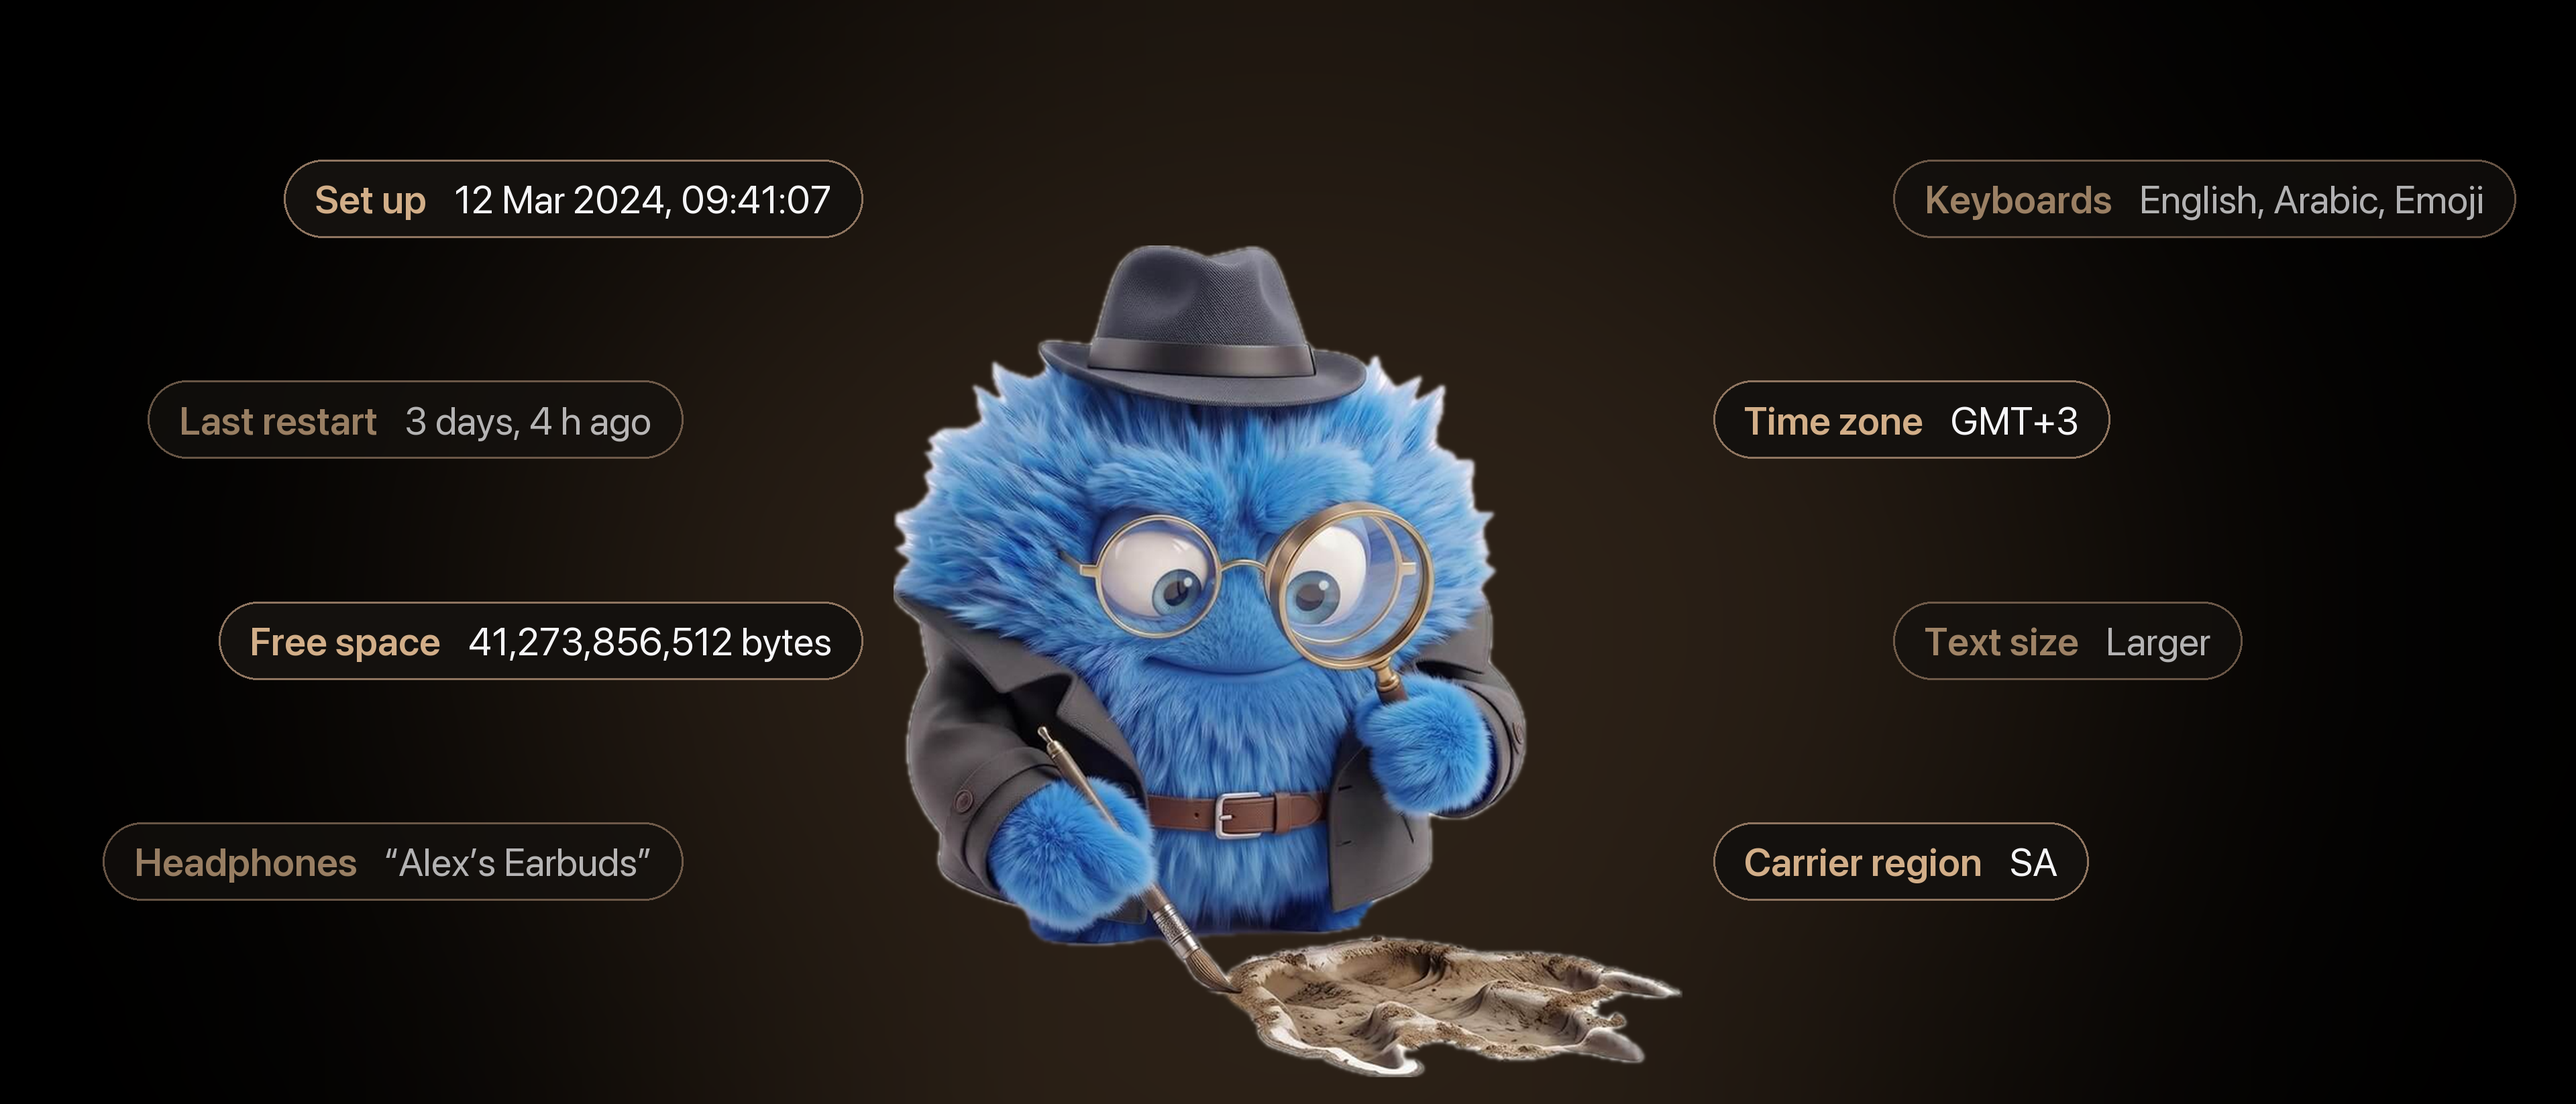
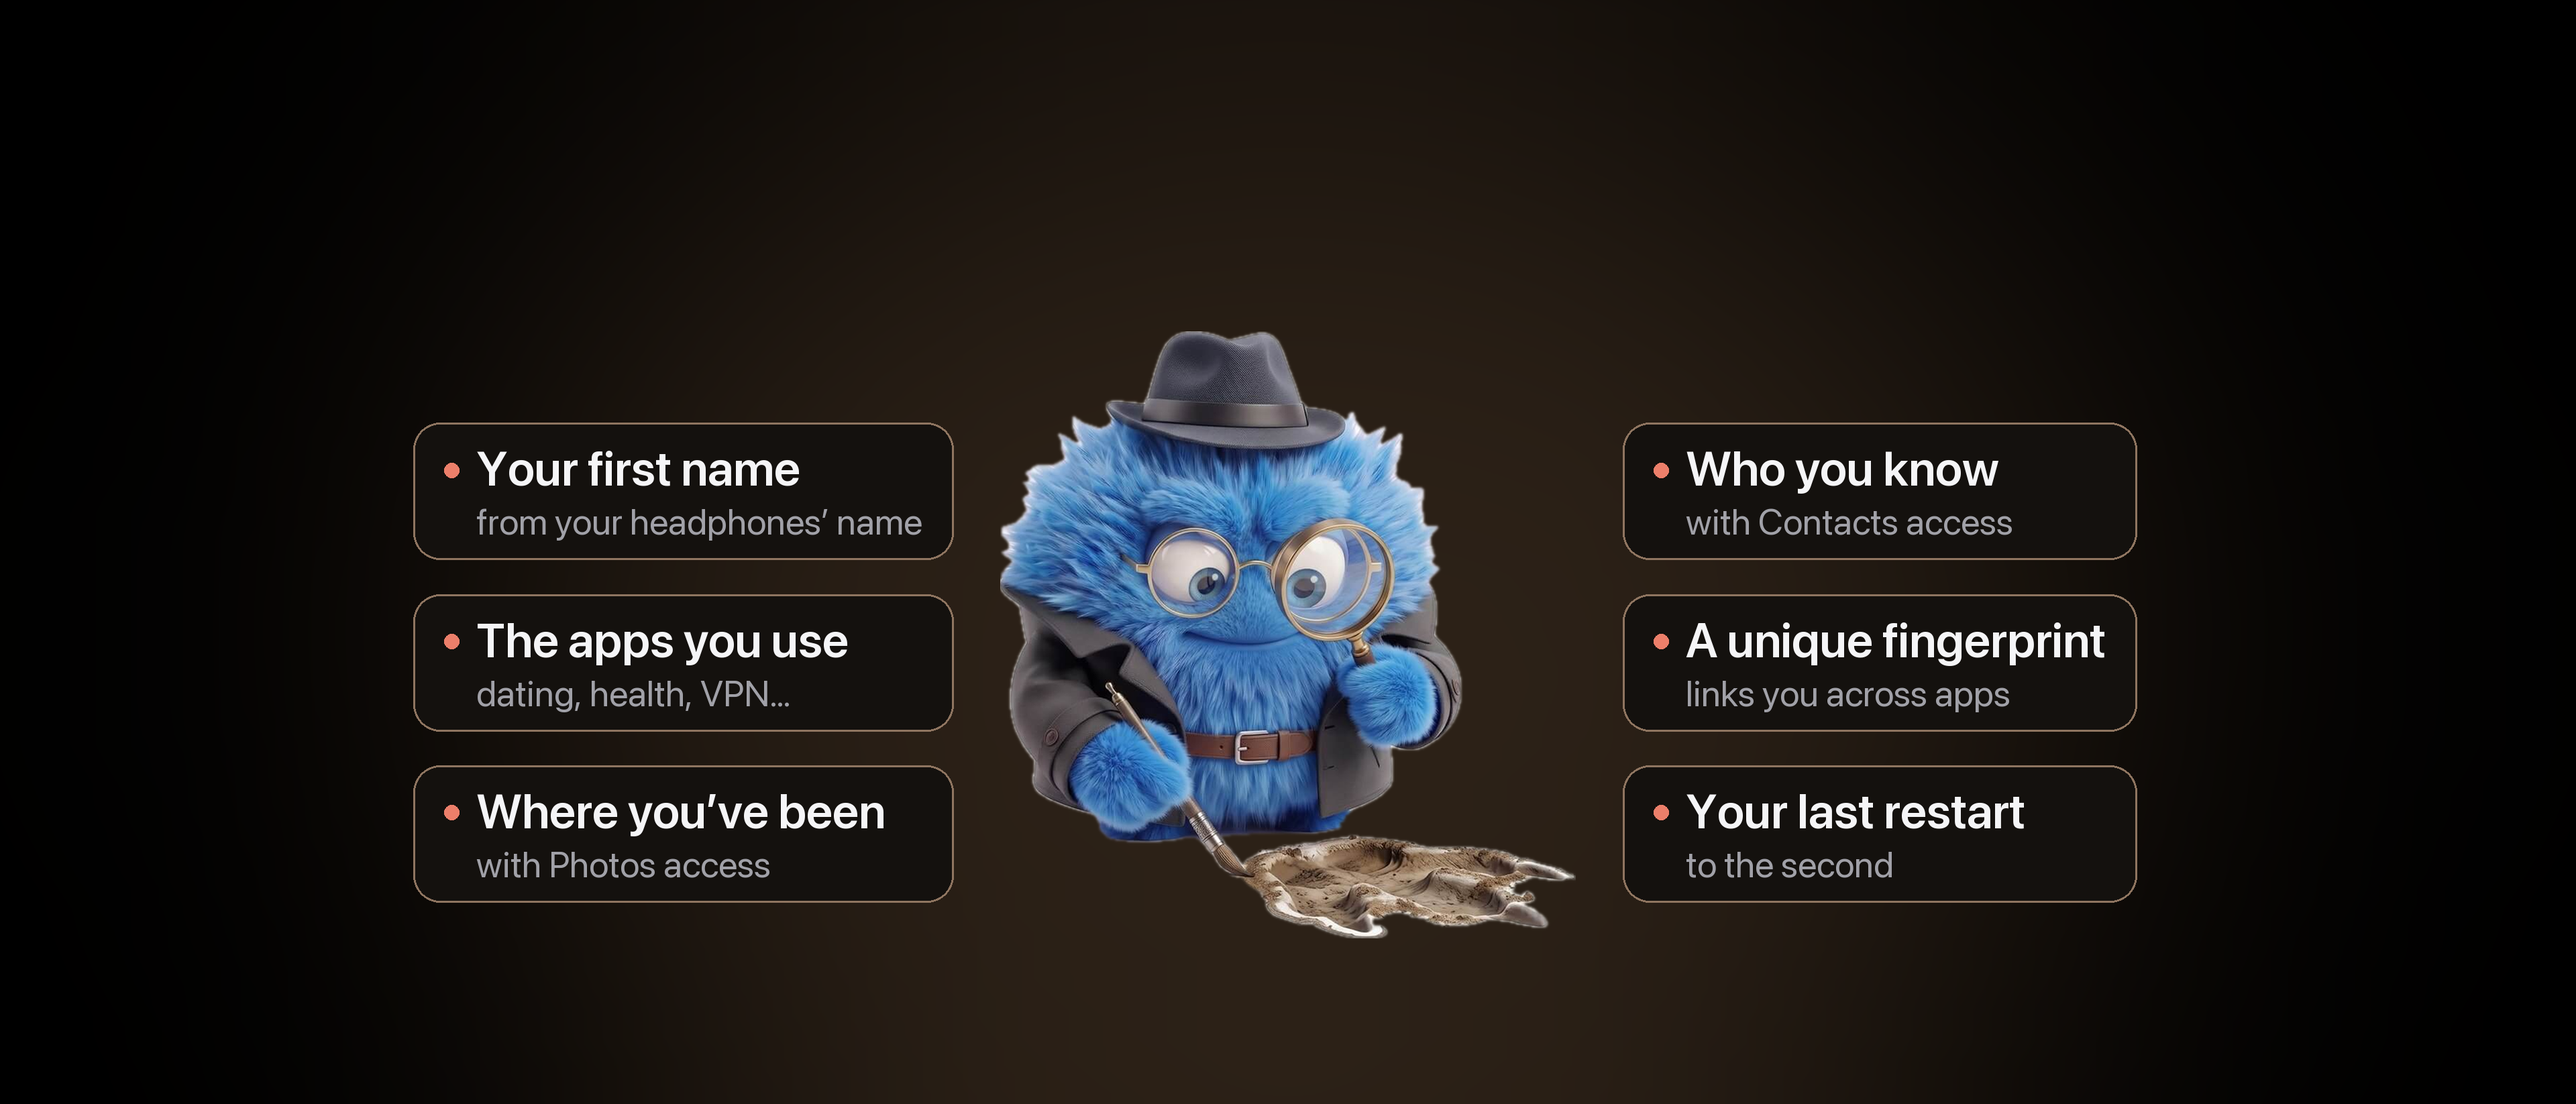
Header: crop-safe layout for iPhone and iPad, concern cards instead of raw values

diff --git a/scripts/make-creative-assets.py b/scripts/make-creative-assets.py
@@ -6,9 +6,9 @@
 
     python3 scripts/make-creative-assets.py <raw-iphone-dir> <out-dir>
 
-- Header, 21:9 at 3840 x 1646: one idea and no headline. The mascot studies the footprint while
-  the details any app can read float around him as clues. Everything important sits in the centre
-  so nothing is lost when the store crops it.
+- Header, 21:9 at 3840 x 1646: one idea and no headline. The mascot studies the footprint between
+  six things an app could learn about you, flagged like the app's findings. Laid out inside the
+  area that both the iPhone and the iPad crop keep (see header()).
 - Search results, 3:2 at 3840 x 2560: says what the app does at a glance and shows the real
   interface, as Apple advises. The headline, three iPhone screens (the mascot is on the centre one) are all centred.
 Quiet Noir palette, shared with the slides. No alpha channel (Apple rejects transparency).
@@ -23,15 +23,14 @@ slides = importlib.util.module_from_spec(spec); spec.loader.exec_module(slides)
 font, device, draw_headline = slides.font, slides.device, slides.draw_headline
 SAND, SAND_DEEP, INK, MUTED = slides.SAND, slides.SAND_DEEP, slides.INK, slides.MUTED
 
-# Illustrative values only: what any app can read without asking.
-CLUES = [
-    ("Set up", "12 Mar 2024, 09:41:07"), ("Last restart", "3 days, 4 h ago"),
-    ("Free space", "41,273,856,512 bytes"), ("Headphones", "“Alex’s Earbuds”"),
-    ("Keyboards", "English, Arabic, Emoji"), ("Time zone", "GMT+3"),
-    ("Text size", "Larger"), ("Carrier region", "SA"),
-    ("Screen", "120 Hz · 460 ppi"), ("Languages", "en-GB, ar"),
+# What an app can learn about you, each with its honest source. Shown as concerns (coral dot), the
+# same way the app flags findings that are worth a look.
+CONCERNS = [
+    ("Your first name", "from your headphones’ name"), ("The apps you use", "dating, health, VPN…"),
+    ("Where you’ve been", "with Photos access"), ("Who you know", "with Contacts access"),
+    ("A unique fingerprint", "links you across apps"), ("Your last restart", "to the second"),
 ]
-
+CORAL = (236, 127, 106)
 
 def glow(w, h, centre_y=0.5):
     bg = Image.new("RGB", (w, h), (0, 0, 0))
@@ -41,44 +40,46 @@ def glow(w, h, centre_y=0.5):
     return Image.blend(bg, layer.filter(ImageFilter.GaussianBlur(w * 0.09)), 1.0).convert("RGBA")
 
 
-def clue(canvas, x, y, label, value, size, alpha, anchor="centre"):
-    """A hairline pill: sand label, white value. Faded by distance from the centre."""
-    layer = Image.new("RGBA", canvas.size, (0, 0, 0, 0))
-    d = ImageDraw.Draw(layer)
-    lf, vf = font(size, "Semibold"), font(size, "Regular")
-    pad_x, pad_y = size * 0.8, size * 0.5
-    lw, vw = d.textlength(label, font=lf), d.textlength(value, font=vf)
-    w, h = lw + vw + size * 0.7 + pad_x * 2, size + pad_y * 2
-    x0 = {"left": x, "right": x - w}.get(anchor, x - w / 2)
-    y0 = y - h / 2
-    d.rounded_rectangle((x0, y0, x0 + w, y0 + h), h / 2, fill=(20, 17, 14, 255), outline=SAND_DEEP + (255,), width=3)
-    d.text((x0 + pad_x, y0 + pad_y - size * 0.1), label, font=lf, fill=SAND + (255,))
-    d.text((x0 + pad_x + lw + size * 0.7, y0 + pad_y - size * 0.1), value, font=vf, fill=INK + (255,))
-    a = layer.getchannel("A").point(lambda v: int(v * alpha))
-    layer.putalpha(a)
-    canvas.alpha_composite(layer)
-
-
 def mascot(height):
     m = Image.open(slides.MASCOT).convert("RGBA")
     return m.resize((int(m.width * height / m.height), height), Image.LANCZOS)
 
 
+def concern_width(label, value):
+    d = ImageDraw.Draw(Image.new("RGB", (8, 8)))
+    return max(d.textlength(label, font=font(72, "Semibold")), d.textlength(value, font=font(54, "Regular"))) + 46 * 2 + 22 + 26
+
+
+def concern(canvas, x, y, label, value, anchor, w):
+    """A two-line hairline card: coral dot and white label, muted source underneath."""
+    d = ImageDraw.Draw(canvas)
+    lf, vf = font(72, "Semibold"), font(54, "Regular")
+    pad_x, pad_y, dot = 46, 30, 22
+    h = 72 + 54 + 18 + pad_y * 2
+    x0 = x - w if anchor == "right" else x
+    y0 = y - h / 2
+    d.rounded_rectangle((x0, y0, x0 + w, y0 + h), 40, fill=(20, 17, 14), outline=SAND_DEEP, width=3)
+    tx = x0 + pad_x + dot + 26
+    d.ellipse((x0 + pad_x, y0 + pad_y + 30, x0 + pad_x + dot, y0 + pad_y + 30 + dot), fill=CORAL)
+    d.text((tx, y0 + pad_y - 6), label, font=lf, fill=INK)
+    d.text((tx, y0 + pad_y + 72 + 12), value, font=vf, fill=MUTED)
+
+
 def header(out):
+    """Everything sits in the area both crops keep: iPhone shows the full height but only the middle
+    ~84% of the width, with buttons over the top corners; iPad shows the full width but loses ~15%
+    top and bottom, with the tab bar over the top centre. Safe: x 0.10–0.90, y 0.30–0.85."""
     w, h = 3840, 1646
-    c = glow(w, h, 0.55)
-    # Clues in two columns either side of the mascot, aligned to its edges and fading outwards.
-    rows = [0.18, 0.38, 0.58, 0.78]
-    left = [(0.335, rows[0], 0.0), (0.335, rows[1], 0.07), (0.335, rows[2], 0.0), (0.335, rows[3], 0.07)]
-    right = [(0.665, rows[0], 0.07), (0.665, rows[1], 0.0), (0.665, rows[2], 0.07), (0.665, rows[3], 0.0)]
-    for i, (fx, fy, step) in enumerate(left):
-        label, value = CLUES[i]
-        clue(c, w * (fx - step), h * fy, label, value, 58, 1.0 - step * 4, anchor="right")
-    for i, (fx, fy, step) in enumerate(right):
-        label, value = CLUES[4 + i]
-        clue(c, w * (fx + step), h * fy, label, value, 58, 1.0 - step * 4, anchor="left")
-    m = mascot(1240)
-    c.alpha_composite(m, ((w - m.width) // 2, h - m.height - 40))
+    c = glow(w, h, 0.57)
+    m = mascot(int(h * 0.55))
+    c.alpha_composite(m, ((w - m.width) // 2, int(h * 0.85) - m.height))
+    gap = 70
+    left_edge, right_edge = (w - m.width) / 2 - gap, (w + m.width) / 2 + gap
+    lw = max(concern_width(*x) for x in CONCERNS[:3])
+    rw = max(concern_width(*x) for x in CONCERNS[3:])
+    for i, fy in enumerate((0.445, 0.60, 0.755)):
+        concern(c, left_edge, h * fy, *CONCERNS[i], anchor="right", w=lw)
+        concern(c, right_edge, h * fy, *CONCERNS[3 + i], anchor="left", w=rw)
     c.convert("RGB").save(out / "header-3840x1646.png", optimize=True)
 
 
